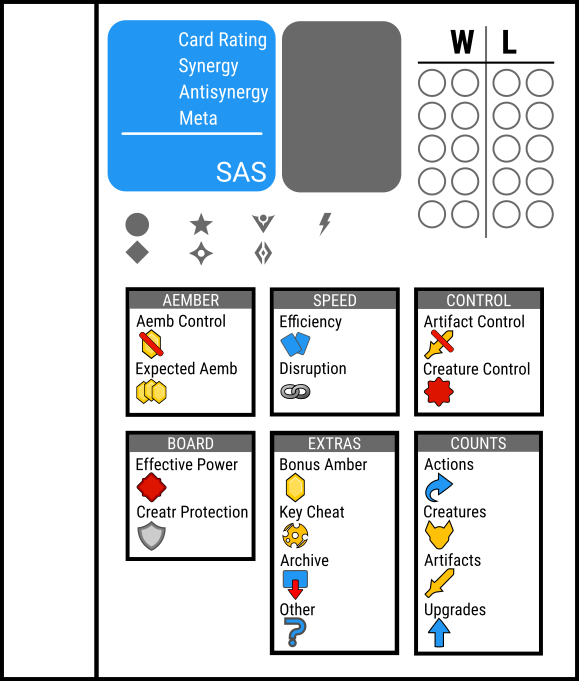
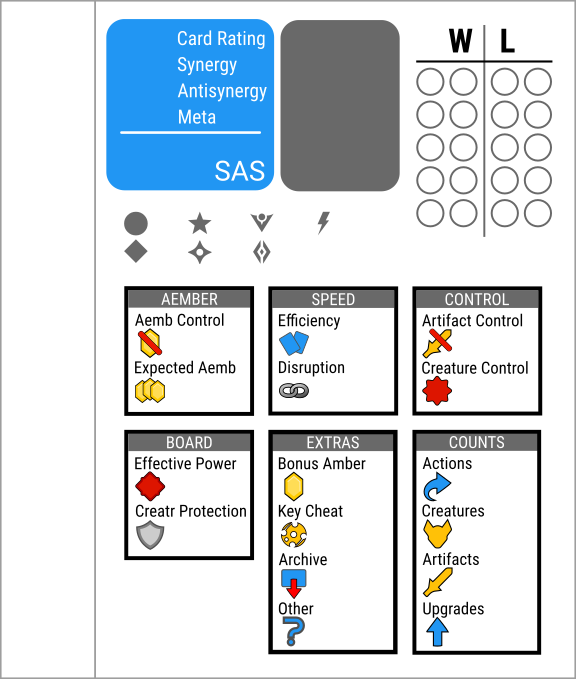
reduce thickness of outline of insert

diff --git a/generate_insert.py b/generate_insert.py
@@ -22,7 +22,7 @@ from reportlab.platypus import SimpleDocTemplate, Paragraph, Spacer
 from reportlab.lib.styles import getSampleStyleSheet
 
 format = {
-    'background': (0*mm,0*mm),
+    'background': (0.1*mm,0*mm),
     'deck_name': (124.46*mm,10.16*mm),
     'house_1': (1.2*mm, 75.2*mm),
     'house_2': (1.2*mm, 64.1*mm),
